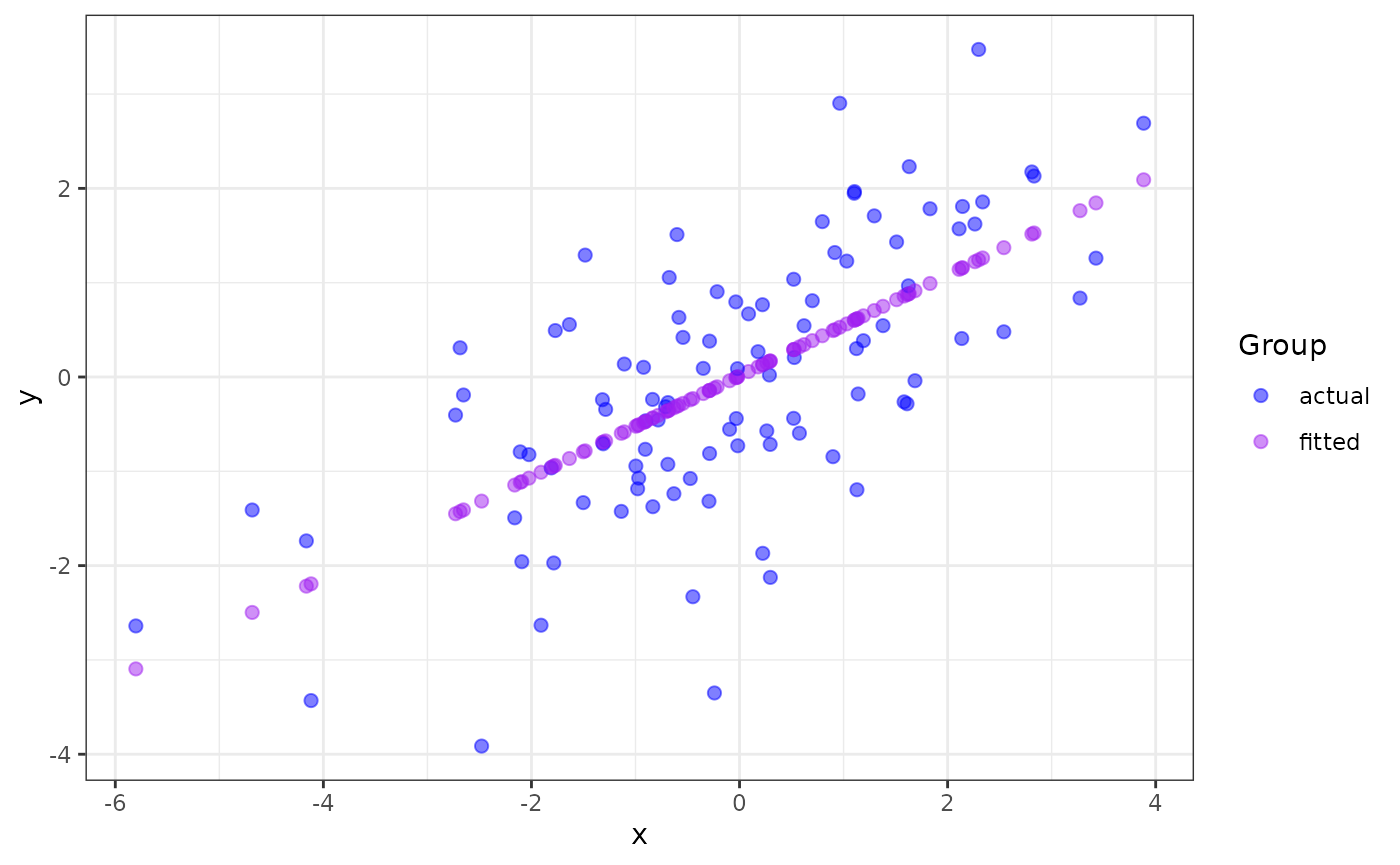
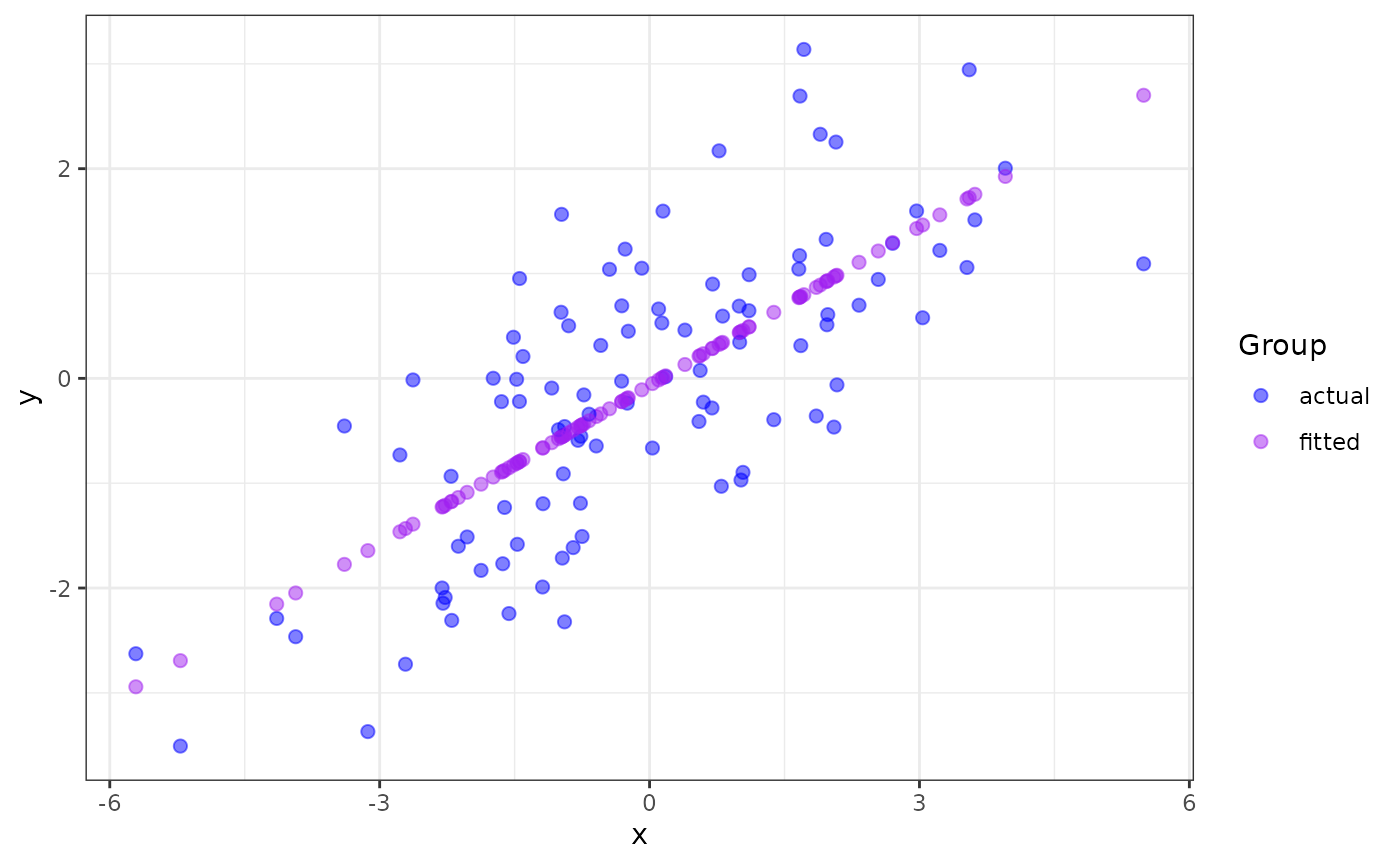
Built site for ggmatplot: 0.1.1@b8a0e77

diff --git a/articles/ggmatplot.html b/articles/ggmatplot.html
@@ -103,7 +103,7 @@
 <span class="va">x</span> <span class="op">&lt;-</span> <span class="fu"><a href="https://rdrr.io/r/base/c.html" class="external-link">c</a></span><span class="op">(</span><span class="fu"><a href="https://rdrr.io/r/stats/Normal.html" class="external-link">rnorm</a></span><span class="op">(</span><span class="fl">100</span>, sd <span class="op">=</span> <span class="fl">2</span><span class="op">)</span><span class="op">)</span>
 
 <span class="fu"><a href="https://rdrr.io/r/utils/head.html" class="external-link">head</a></span><span class="op">(</span><span class="va">x</span><span class="op">)</span>
-<span class="co">#&gt; [1] -4.1183590 -0.9012485 -2.0242072 -1.1076107 -1.7708802  0.7957803</span>
+<span class="co">#&gt; [1] -0.5924881  0.6938314 -2.1255500 -2.7131258 -2.6298559 -1.4776191</span>
 
 <span class="co"># matrix z</span>
 <span class="va">y</span> <span class="op">&lt;-</span> <span class="va">x</span> <span class="op">*</span> <span class="fl">0.5</span> <span class="op">+</span> <span class="fu"><a href="https://rdrr.io/r/stats/Normal.html" class="external-link">rnorm</a></span><span class="op">(</span><span class="fl">100</span>, sd <span class="op">=</span> <span class="fl">1</span><span class="op">)</span>
@@ -112,13 +112,13 @@
            fitted <span class="op">=</span> <span class="va">fit.y</span><span class="op">)</span>
 
 <span class="fu"><a href="https://rdrr.io/r/utils/head.html" class="external-link">head</a></span><span class="op">(</span><span class="va">z</span><span class="op">)</span>
-<span class="co">#&gt;       actual     fitted</span>
-<span class="co">#&gt; 1 -3.4308859 -2.1935373</span>
-<span class="co">#&gt; 2 -0.4642089 -0.4711672</span>
-<span class="co">#&gt; 3 -0.8231329 -1.0723745</span>
-<span class="co">#&gt; 4  0.1372329 -0.5816490</span>
-<span class="co">#&gt; 5  0.4925561 -0.9367489</span>
-<span class="co">#&gt; 6  1.6475153  0.4373846</span></code></pre></div>
+<span class="co">#&gt;         actual     fitted</span>
+<span class="co">#&gt; 1 -0.644893650 -0.3642409</span>
+<span class="co">#&gt; 2 -0.282550354  0.2836685</span>
+<span class="co">#&gt; 3 -1.601401547 -1.1364326</span>
+<span class="co">#&gt; 4 -2.726681003 -1.4323901</span>
+<span class="co">#&gt; 5 -0.015107122 -1.3904476</span>
+<span class="co">#&gt; 6 -0.008932655 -0.8100747</span></code></pre></div>
 <p><code>ggmatplot</code> plots vector <code>x</code> against each column of matrix <code>z</code> using the default <code>plot_type = "point"</code>. This will be represented on the resulting plot as two groups, identified using different shapes and colors.</p>
 <div class="sourceCode" id="cb2"><pre class="downlit sourceCode r">
 <code class="sourceCode R"><span class="kw"><a href="https://rdrr.io/r/base/library.html" class="external-link">library</a></span><span class="op">(</span><span class="va"><a href="https://github.com/xuan-liang/ggmatplot" class="external-link">ggmatplot</a></span><span class="op">)</span>
